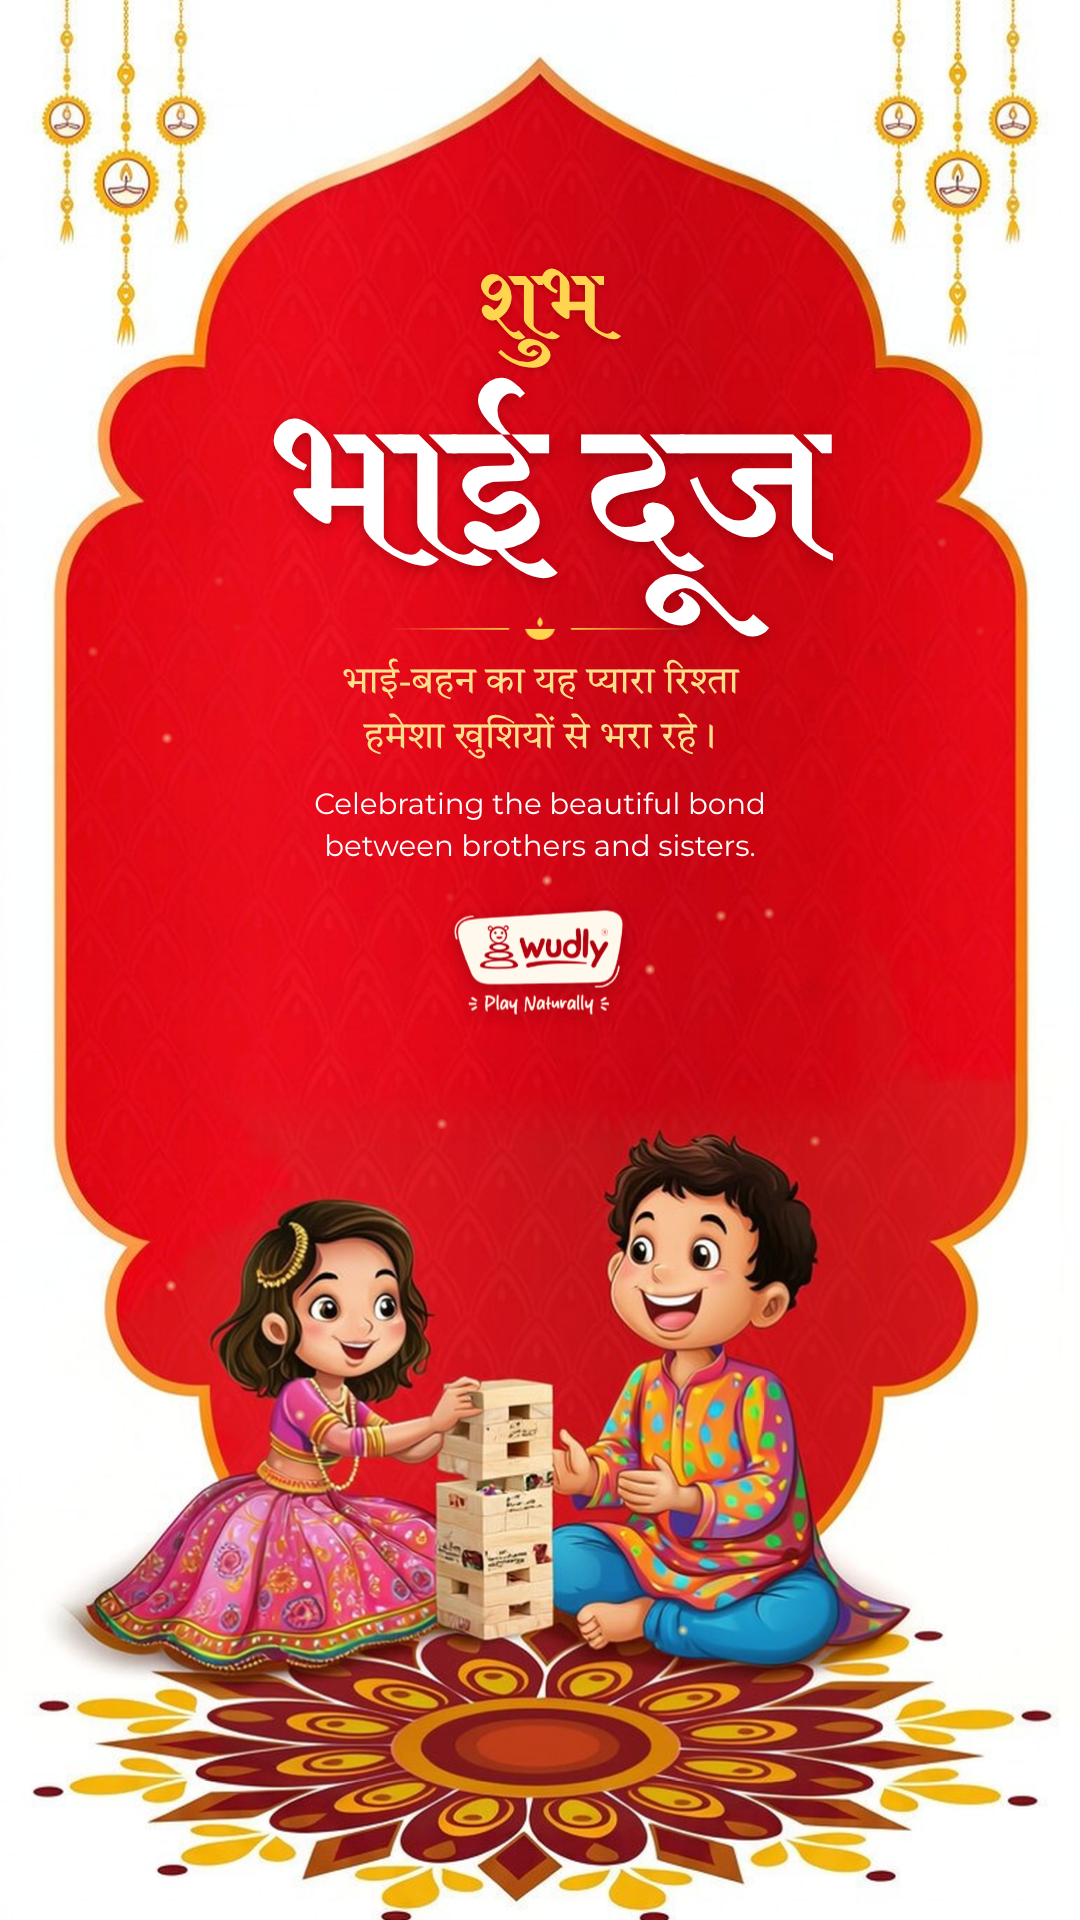
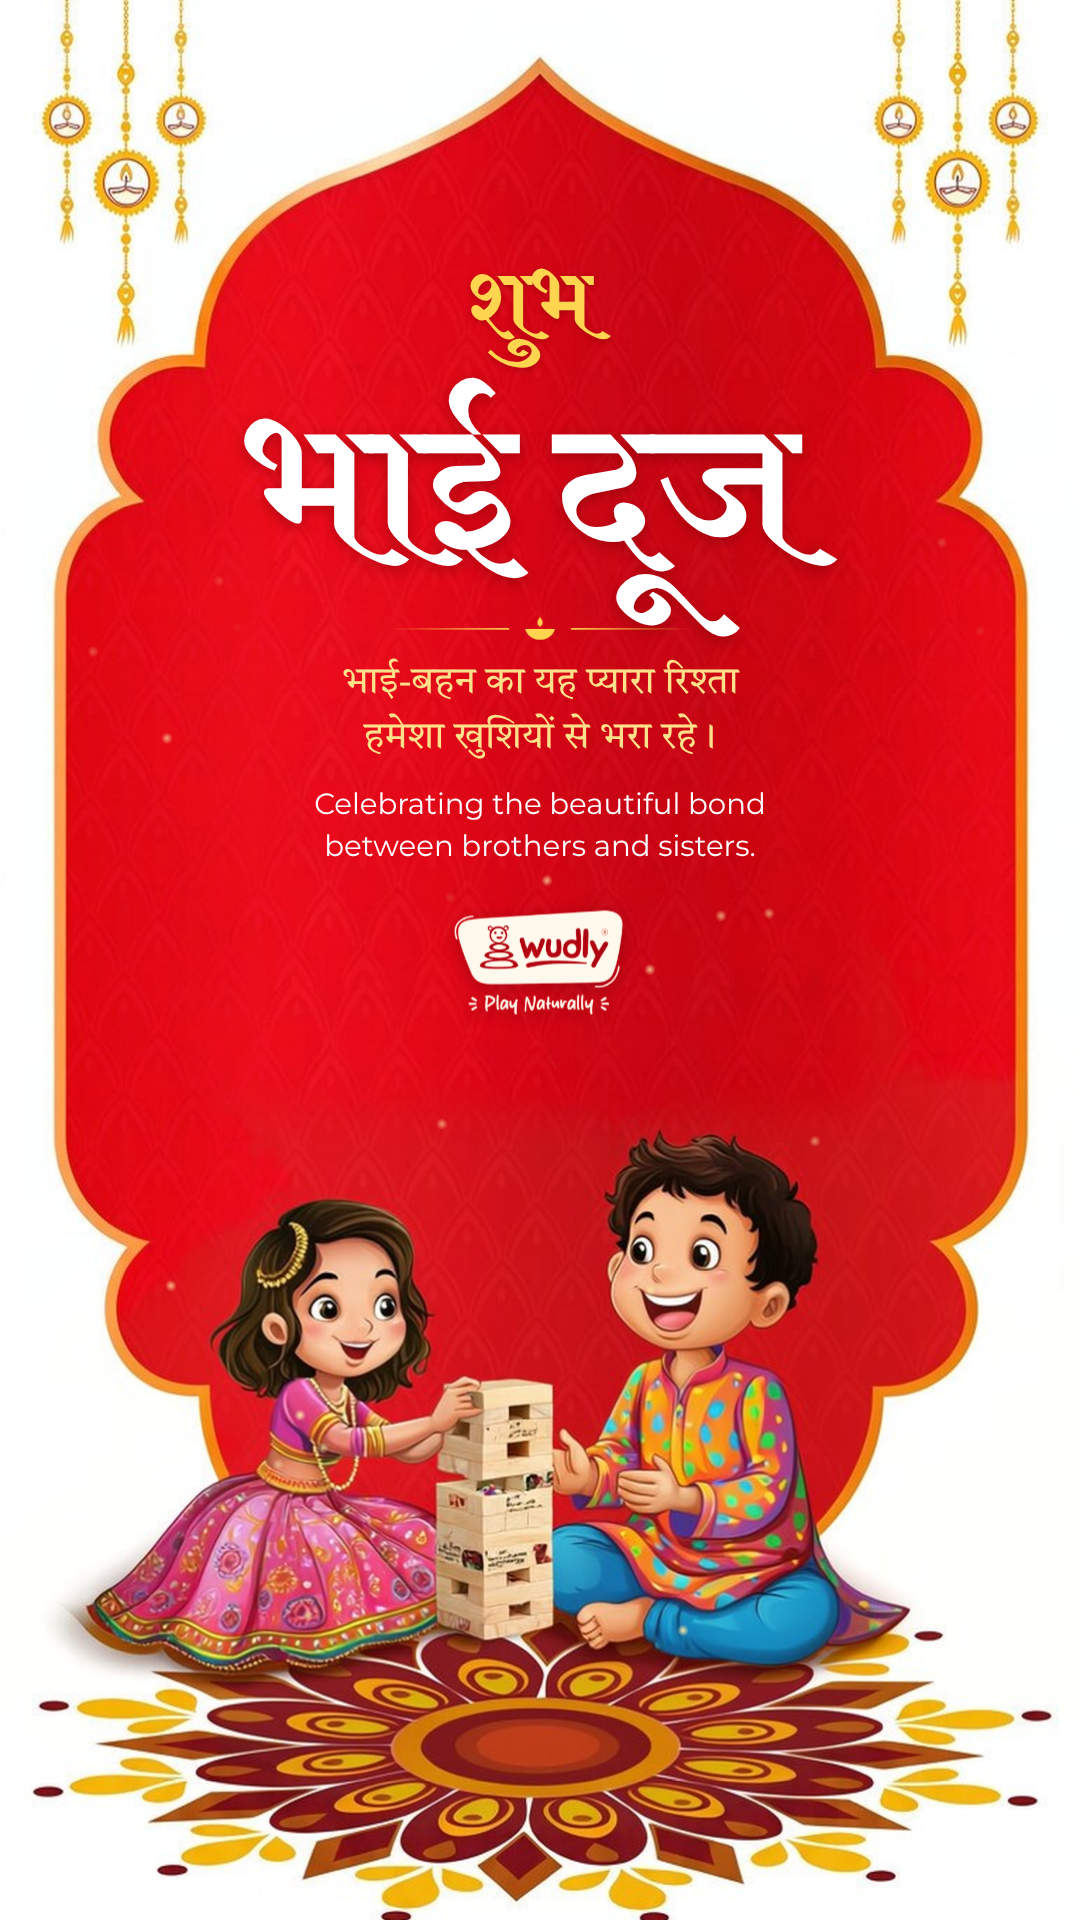
Bhai Dooj story: all text lines exactly centred
Claude-Session: https://claude.ai/code/session_01T8B4c7Nt5oJX9k9ooLvdZU

Changed region(s): [[0.2139, 0.125, 0.7639, 0.3438]]

diff --git a/festive-posts/owner-greetings/src/template/bd.html b/festive-posts/owner-greetings/src/template/bd.html
@@ -12,22 +12,22 @@ body{margin:0;width:1080px;height:__H__px;overflow:hidden;position:relative;back
 .heart{position:absolute;font-size:34px;color:#FFD54F;opacity:0;animation:hrt 4s ease-out infinite}
 @keyframes hrt{0%{opacity:0;transform:translateY(0) scale(.6)}20%{opacity:.95}100%{opacity:0;transform:translateY(-260px) scale(1.1)}}
 .area{position:absolute;left:0;right:0;top:__T__px;height:__A__px;display:flex;align-items:center;justify-content:center}
-.wrap{width:620px;text-align:center;color:#fff;transform:scale(__S__)}
+.wrap{width:760px;text-align:center;color:#fff;transform:scale(__S__)}
 .wrap>*{opacity:0;animation:up .9s cubic-bezier(.2,.7,.2,1) forwards}
 @keyframes up{from{opacity:0;transform:translateY(40px)}to{opacity:1;transform:none}}
 .hs{font-family:Amita;font-weight:700;font-size:96px;line-height:1;color:#FFD54F;margin-bottom:60px;text-shadow:0 2px 8px rgba(90,0,0,.35);animation-delay:.5s!important}
 .hb{font-family:Amita;font-weight:700;font-size:200px;line-height:1.15;white-space:nowrap;text-shadow:0 4px 16px rgba(90,0,0,.4);animation:wipe 1.2s cubic-bezier(.3,.6,.2,1) forwards!important;animation-delay:1s!important}
-@keyframes wipe{from{opacity:1;clip-path:inset(0 100% 0 0)}to{opacity:1;clip-path:inset(-20% -5% -30% 0)}}
+@keyframes wipe{from{opacity:1;clip-path:inset(0 100% 0 0)}to{opacity:1;clip-path:inset(-20% -10% -30% -10%)}}
 .dv{display:flex;align-items:center;justify-content:center;gap:16px;margin:22px auto 18px;animation-delay:2s!important}
 .dv i{display:block;height:2px;width:140px;background:linear-gradient(90deg,transparent,#FFD54F)}
 .dv i:last-child{background:linear-gradient(90deg,#FFD54F,transparent)}
 .hi{font-family:Tiro;font-size:44px;line-height:1.45;color:#FFE08A;margin-bottom:18px;animation-delay:2.5s!important}
-.line{font-family:Mont;font-size:34px;line-height:1.45;text-wrap:balance;animation-delay:3.1s!important}
+.line{max-width:620px;margin:0 auto;font-family:Mont;font-size:34px;line-height:1.45;text-wrap:balance;animation-delay:3.1s!important}
 .logo{width:210px;margin-top:44px;filter:drop-shadow(0 4px 10px rgba(0,0,0,.25));animation:pop .7s cubic-bezier(.3,1.6,.5,1) forwards!important;animation-delay:3.8s!important}
 @keyframes pop{from{opacity:0;transform:scale(.3)}to{opacity:1;transform:scale(1)}}
 </style></head><body><div class="bg"></div>__FX__
 <div class="area"><div class="wrap">
-<div class="hs">शुभ</div><div class="hb">भाई दूज</div>
+<div class="hs"><span style="display:inline-block;position:relative;left:-12px">शुभ</span></div><div class="hb"><span style="display:inline-block;position:relative;left:-21px">भाई दूज</span></div>
 <div class="dv"><i></i><svg width="40" height="30" viewBox="0 0 34 26"><path d="M17 1c3 4 4 7 0 10-4-3-3-6 0-10z" fill="#FFD54F"/><path d="M2 13h30c-2 7-8 11-15 11S4 20 2 13z" fill="#FFD54F"/></svg><i></i></div>
 <div class="hi">भाई-बहन का यह प्यारा रिश्ता<br>हमेशा खुशियों से भरा रहे।</div>
 <div class="line">Celebrating the beautiful bond between brothers and sisters.</div>
